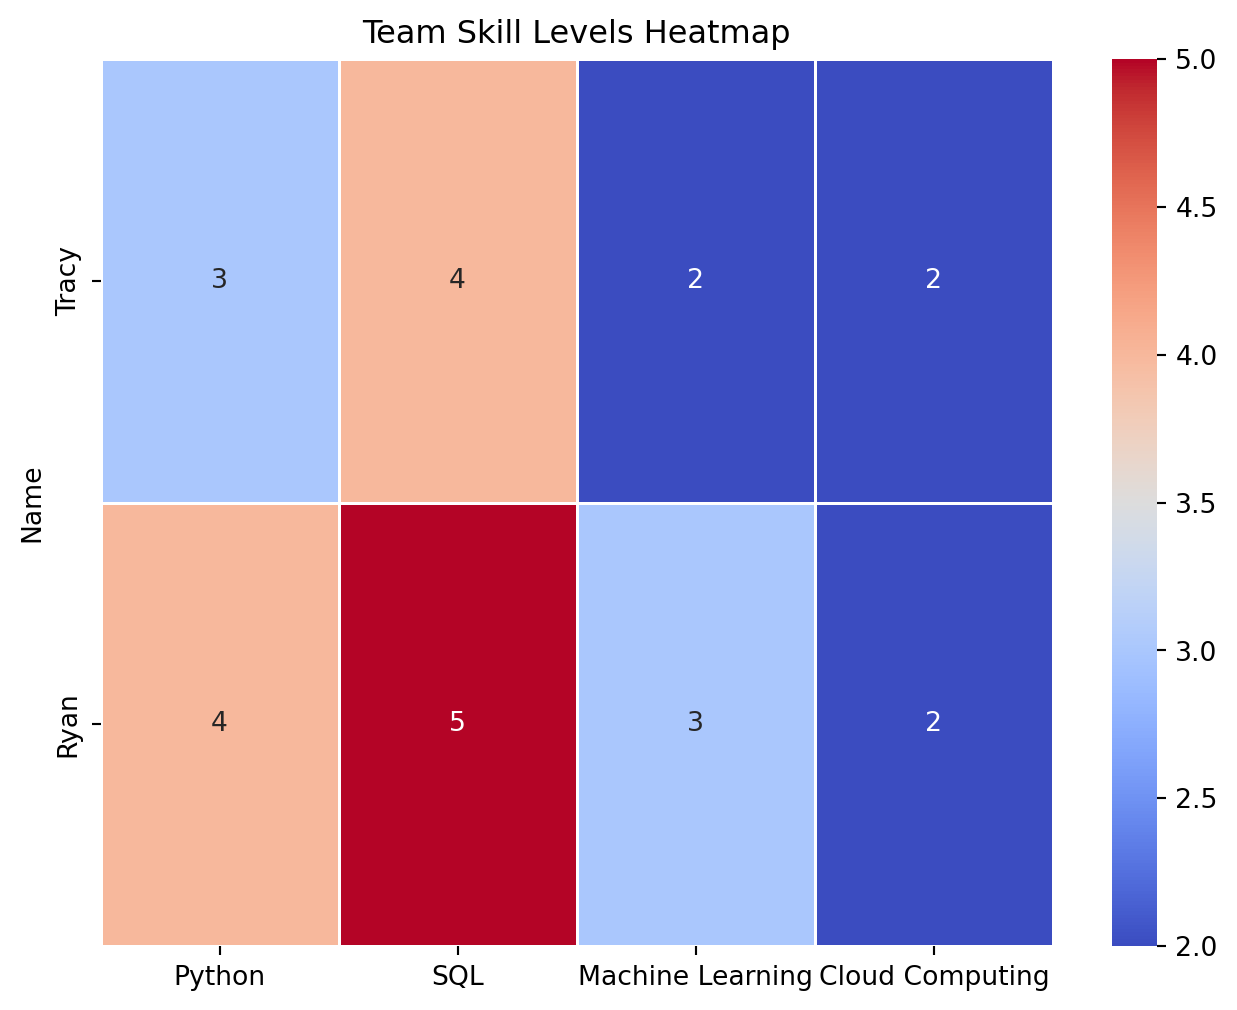
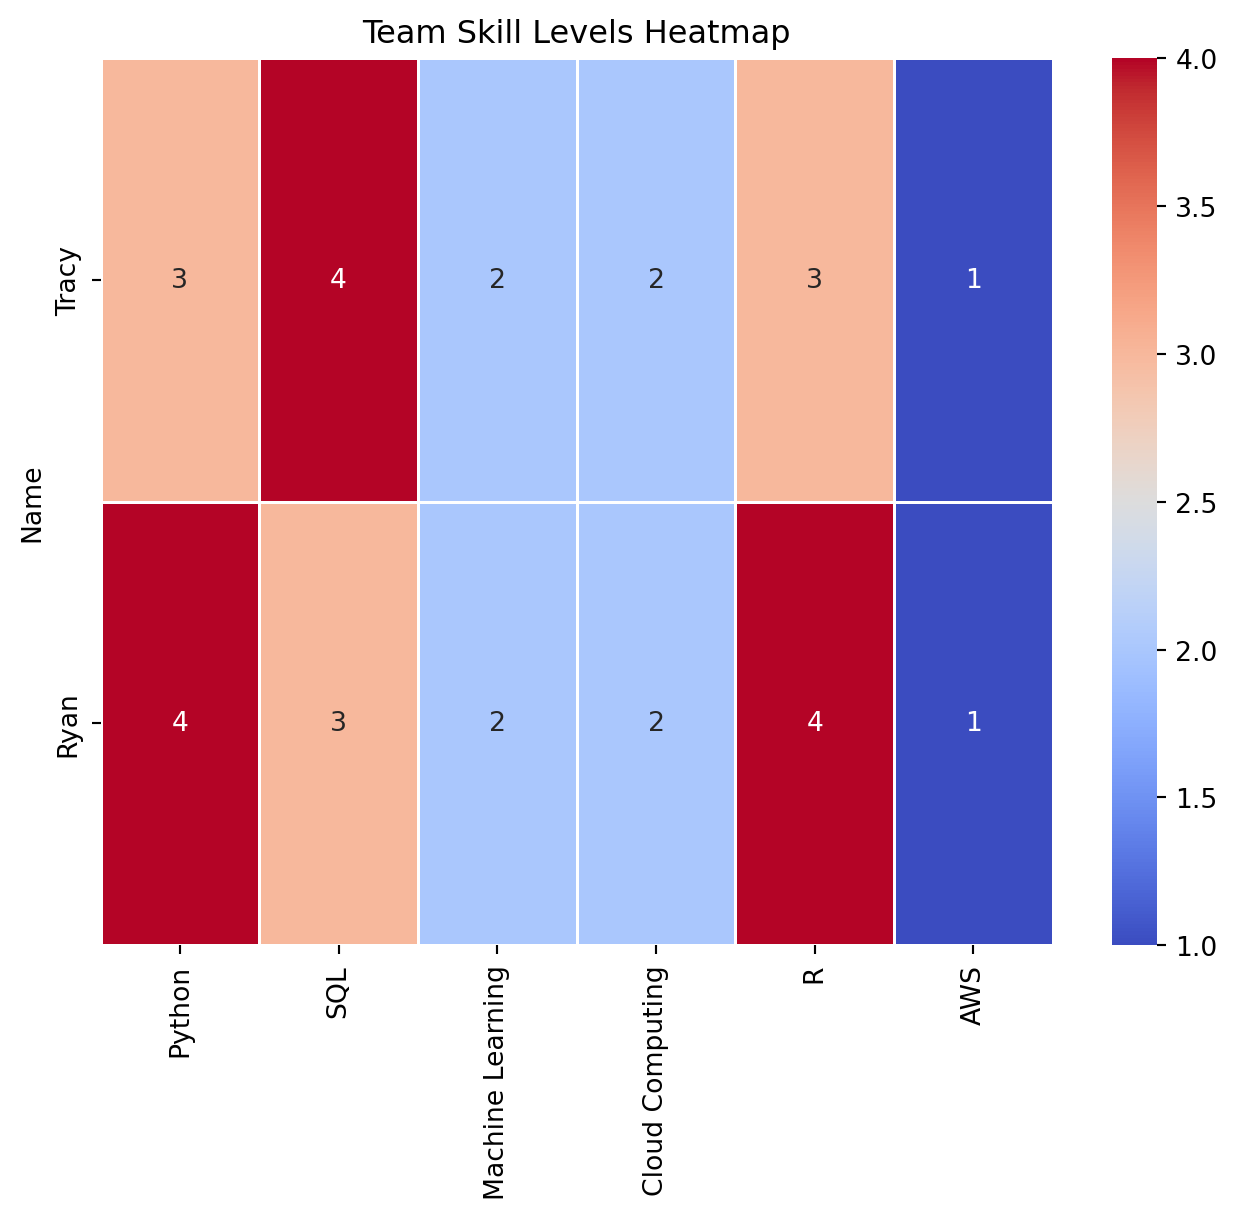
Built site for gh-pages

diff --git a/skill_gap_analysis.html b/skill_gap_analysis.html
@@ -139,7 +139,11 @@ ul.task-list li input[type="checkbox"] {
    
   <ul>
   <li><a href="#team-skill-levels-heatmap" id="toc-team-skill-levels-heatmap" class="nav-link active" data-scroll-target="#team-skill-levels-heatmap">Team Skill Levels Heatmap</a></li>
-  <li><a href="#job-market-vs.-team-skill-coverage" id="toc-job-market-vs.-team-skill-coverage" class="nav-link" data-scroll-target="#job-market-vs.-team-skill-coverage">Job Market vs.&nbsp;Team Skill Coverage</a></li>
+  <li><a href="#job-market-vs.-team-skill-coverage" id="toc-job-market-vs.-team-skill-coverage" class="nav-link" data-scroll-target="#job-market-vs.-team-skill-coverage">Job Market vs.&nbsp;Team Skill Coverage</a>
+  <ul class="collapse">
+  <li><a href="#compare-team-skills-to-industry-requirements" id="toc-compare-team-skills-to-industry-requirements" class="nav-link" data-scroll-target="#compare-team-skills-to-industry-requirements">Compare Team Skills to Industry Requirements</a></li>
+  <li><a href="#improvement-plan" id="toc-improvement-plan" class="nav-link" data-scroll-target="#improvement-plan">Improvement Plan</a></li>
+  </ul></li>
   </ul>
 </nav>
     </div>
@@ -165,7 +169,13 @@ ul.task-list li input[type="checkbox"] {
 </header>
 
 
-<div id="8123f3ae" class="cell" data-execution_count="1">
+<p>A numerical scale (1-5) to indicate proficiency levels:<br>
+- 1 = Beginner<br>
+- 2 = Basic Knowledge<br>
+- 3 = Intermediate<br>
+- 4 = Advanced<br>
+- 5 = Expert</p>
+<div id="b50c9ee7" class="cell" data-execution_count="1">
 <div class="cell-output cell-output-display" data-execution_count="1">
 <div>
 
@@ -178,64 +188,7 @@ ul.task-list li input[type="checkbox"] {
 <th data-quarto-table-cell-role="th">SQL</th>
 <th data-quarto-table-cell-role="th">Machine Learning</th>
 <th data-quarto-table-cell-role="th">Cloud Computing</th>
-</tr>
-<tr class="even">
-<th data-quarto-table-cell-role="th">Name</th>
-<th data-quarto-table-cell-role="th"></th>
-<th data-quarto-table-cell-role="th"></th>
-<th data-quarto-table-cell-role="th"></th>
-<th data-quarto-table-cell-role="th"></th>
-</tr>
-</thead>
-<tbody>
-<tr class="odd">
-<th data-quarto-table-cell-role="th">Tracy</th>
-<td>3</td>
-<td>4</td>
-<td>2</td>
-<td>2</td>
-</tr>
-<tr class="even">
-<th data-quarto-table-cell-role="th">Ryan</th>
-<td>4</td>
-<td>5</td>
-<td>3</td>
-<td>2</td>
-</tr>
-</tbody>
-</table>
-
-</div>
-</div>
-</div>
-<section id="team-skill-levels-heatmap" class="level1">
-<h1>Team Skill Levels Heatmap</h1>
-<div id="0af7b4fb" class="cell" data-execution_count="2">
-<div class="cell-output cell-output-display">
-<div>
-<figure class="figure">
-<p><img src="skill_gap_analysis_files/figure-html/cell-3-output-1.png" width="619" height="505" class="figure-img"></p>
-</figure>
-</div>
-</div>
-</div>
-</section>
-<section id="job-market-vs.-team-skill-coverage" class="level1">
-<h1>Job Market vs.&nbsp;Team Skill Coverage</h1>
-<div id="076ae4eb" class="cell" data-execution_count="3">
-<div class="cell-output cell-output-display" data-execution_count="3">
-<div>
-
-
-<table class="dataframe caption-top table table-sm table-striped small" data-border="1">
-<thead>
-<tr class="header">
-<th data-quarto-table-cell-role="th"></th>
-<th data-quarto-table-cell-role="th">Python</th>
-<th data-quarto-table-cell-role="th">SQL</th>
-<th data-quarto-table-cell-role="th">Machine Learning</th>
-<th data-quarto-table-cell-role="th">Cloud Computing</th>
-<th data-quarto-table-cell-role="th">Docker</th>
+<th data-quarto-table-cell-role="th">R</th>
 <th data-quarto-table-cell-role="th">AWS</th>
 </tr>
 <tr class="even">
@@ -255,16 +208,85 @@ ul.task-list li input[type="checkbox"] {
 <td>4</td>
 <td>2</td>
 <td>2</td>
-<td>0</td>
+<td>3</td>
+<td>1</td>
+</tr>
+<tr class="even">
+<th data-quarto-table-cell-role="th">Ryan</th>
+<td>4</td>
+<td>3</td>
+<td>2</td>
+<td>2</td>
+<td>4</td>
+<td>1</td>
+</tr>
+</tbody>
+</table>
+
+</div>
+</div>
+</div>
+<section id="team-skill-levels-heatmap" class="level1">
+<h1>Team Skill Levels Heatmap</h1>
+<div id="0a2cc058" class="cell" data-execution_count="2">
+<div class="cell-output cell-output-display">
+<div>
+<figure class="figure">
+<p><img src="skill_gap_analysis_files/figure-html/cell-3-output-1.png" width="619" height="609" class="figure-img"></p>
+</figure>
+</div>
+</div>
+</div>
+</section>
+<section id="job-market-vs.-team-skill-coverage" class="level1">
+<h1>Job Market vs.&nbsp;Team Skill Coverage</h1>
+<div id="7f1ed928" class="cell" data-execution_count="3">
+<div class="cell-output cell-output-display" data-execution_count="3">
+<div>
+
+
+<table class="dataframe caption-top table table-sm table-striped small" data-border="1">
+<thead>
+<tr class="header">
+<th data-quarto-table-cell-role="th"></th>
+<th data-quarto-table-cell-role="th">Python</th>
+<th data-quarto-table-cell-role="th">SQL</th>
+<th data-quarto-table-cell-role="th">Machine Learning</th>
+<th data-quarto-table-cell-role="th">Cloud Computing</th>
+<th data-quarto-table-cell-role="th">R</th>
+<th data-quarto-table-cell-role="th">AWS</th>
+<th data-quarto-table-cell-role="th">Docker</th>
+</tr>
+<tr class="even">
+<th data-quarto-table-cell-role="th">Name</th>
+<th data-quarto-table-cell-role="th"></th>
+<th data-quarto-table-cell-role="th"></th>
+<th data-quarto-table-cell-role="th"></th>
+<th data-quarto-table-cell-role="th"></th>
+<th data-quarto-table-cell-role="th"></th>
+<th data-quarto-table-cell-role="th"></th>
+<th data-quarto-table-cell-role="th"></th>
+</tr>
+</thead>
+<tbody>
+<tr class="odd">
+<th data-quarto-table-cell-role="th">Tracy</th>
+<td>3</td>
+<td>4</td>
+<td>2</td>
+<td>2</td>
+<td>3</td>
+<td>1</td>
 <td>0</td>
 </tr>
 <tr class="even">
 <th data-quarto-table-cell-role="th">Ryan</th>
 <td>4</td>
-<td>5</td>
 <td>3</td>
 <td>2</td>
-<td>0</td>
+<td>2</td>
+<td>4</td>
+<td>1</td>
 <td>0</td>
 </tr>
 </tbody>
@@ -273,8 +295,15 @@ ul.task-list li input[type="checkbox"] {
 </div>
 </div>
 </div>
+<section id="compare-team-skills-to-industry-requirements" class="level2">
+<h2 class="anchored" data-anchor-id="compare-team-skills-to-industry-requirements">Compare Team Skills to Industry Requirements</h2>
+<p>Working in the IT department requires various technological skills, ones that Ryan and Tracy will need to meet industry requirements. The top skills in this line of work include experience with Python, SQL, Machine Learning, Cloud Computing, R, Docker, and AWS. Ryan and Tracy have good experience using Python, SQL, and R, but need to improve their efficiency in Machine Learning, and Cloud Computing, while familiarizing themselves with Docker and AWS, where they have little to no experience.</p>
+</section>
+<section id="improvement-plan" class="level2">
+<h2 class="anchored" data-anchor-id="improvement-plan">Improvement Plan</h2>
 
 
+</section>
 </section>
 
 </main> <!-- /main -->
